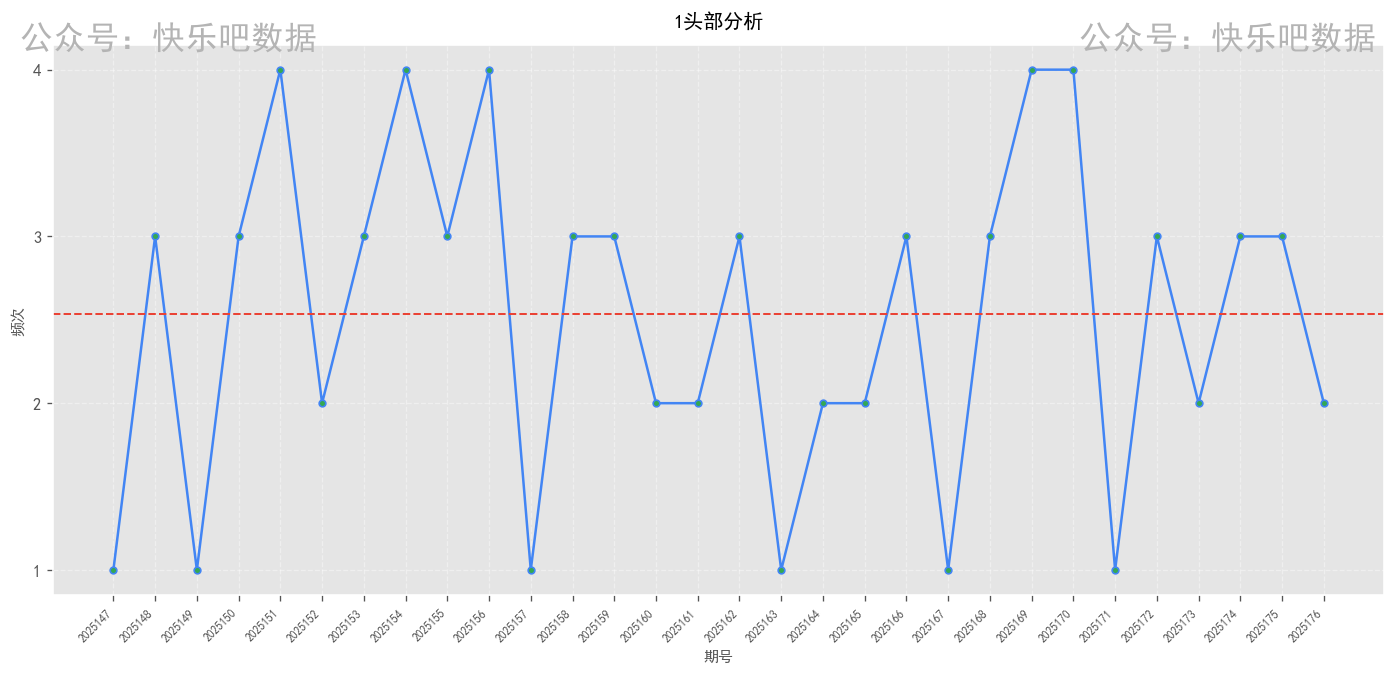
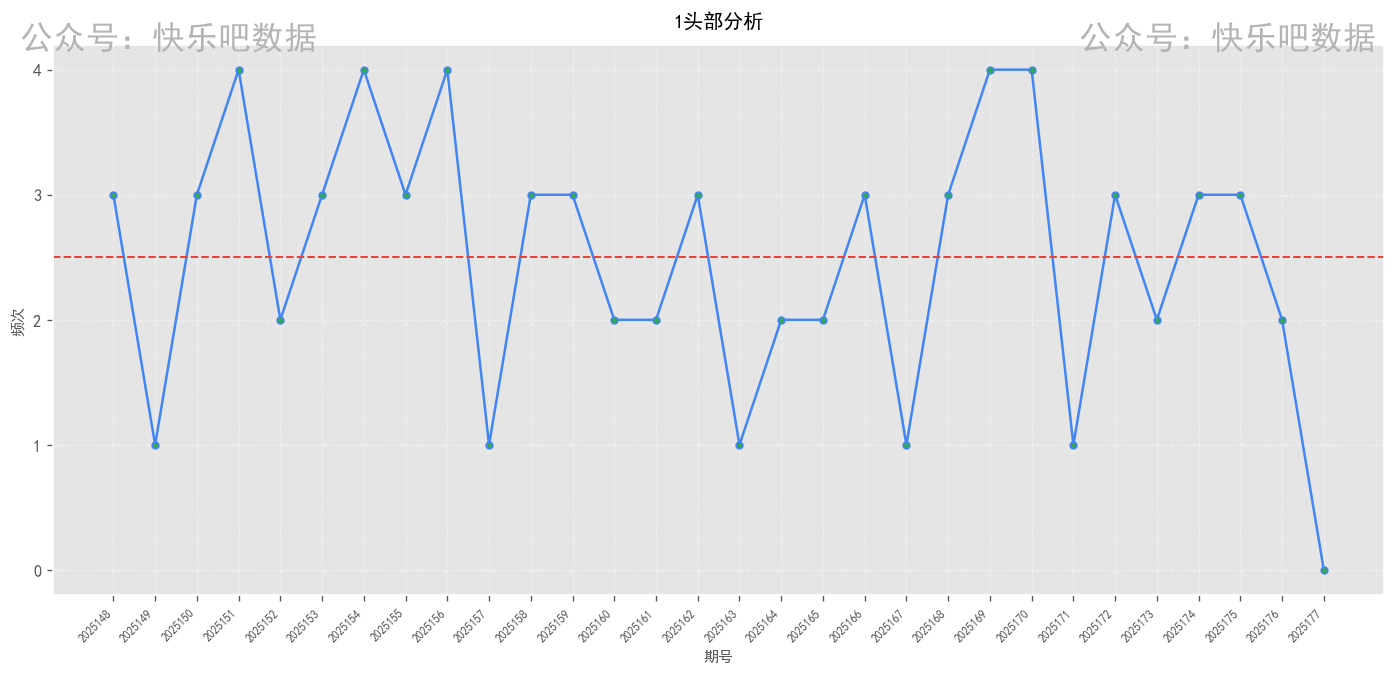
自动提交报告 20250706_2323

diff --git a/快乐8头号分析项目/数据报告/20250706/report.html b/快乐8头号分析项目/数据报告/20250706/report.html
@@ -440,7 +440,7 @@
                     <div class="label">头部区间</div>
                 </div>
                 <div class="overview-card">
-                    <div class="value">2025176</div>
+                    <div class="value">2025177</div>
                     <div class="label">最新期号</div>
                 </div>
                 <div class="overview-card">
@@ -464,11 +464,11 @@
             <div class="stats-summary">
                 <div class="stat-item">
                     <span class="stat-label">历史平均</span>
-                    <span class="stat-value">2.20</span>
+                    <span class="stat-value">2.33</span>
                 </div>
                 <div class="stat-item">
                     <span class="stat-label">近期平均</span>
-                    <span class="stat-value">2.40</span>
+                    <span class="stat-value">3.00</span>
                 </div>
                 <div class="stat-item">
                     <span class="stat-label">最高频次</span>
@@ -486,11 +486,11 @@
             <div class="stats-summary">
                 <div class="stat-item">
                     <span class="stat-label">历史平均</span>
-                    <span class="stat-value">2.53</span>
+                    <span class="stat-value">2.50</span>
                 </div>
                 <div class="stat-item">
                     <span class="stat-label">近期平均</span>
-                    <span class="stat-value">2.60</span>
+                    <span class="stat-value">2.00</span>
                 </div>
                 <div class="stat-item">
                     <span class="stat-label">最高频次</span>
@@ -508,11 +508,11 @@
             <div class="stats-summary">
                 <div class="stat-item">
                     <span class="stat-label">历史平均</span>
-                    <span class="stat-value">2.73</span>
+                    <span class="stat-value">2.67</span>
                 </div>
                 <div class="stat-item">
                     <span class="stat-label">近期平均</span>
-                    <span class="stat-value">2.20</span>
+                    <span class="stat-value">2.00</span>
                 </div>
                 <div class="stat-item">
                     <span class="stat-label">最高频次</span>
@@ -530,15 +530,15 @@
             <div class="stats-summary">
                 <div class="stat-item">
                     <span class="stat-label">历史平均</span>
-                    <span class="stat-value">2.60</span>
+                    <span class="stat-value">2.70</span>
                 </div>
                 <div class="stat-item">
                     <span class="stat-label">近期平均</span>
-                    <span class="stat-value">2.00</span>
+                    <span class="stat-value">2.60</span>
                 </div>
                 <div class="stat-item">
                     <span class="stat-label">最高频次</span>
-                    <span class="stat-value">5</span>
+                    <span class="stat-value">6</span>
                 </div>
             </div>
         </div>
@@ -574,11 +574,11 @@
             <div class="stats-summary">
                 <div class="stat-item">
                     <span class="stat-label">历史平均</span>
-                    <span class="stat-value">2.47</span>
+                    <span class="stat-value">2.37</span>
                 </div>
                 <div class="stat-item">
                     <span class="stat-label">近期平均</span>
-                    <span class="stat-value">3.00</span>
+                    <span class="stat-value">2.20</span>
                 </div>
                 <div class="stat-item">
                     <span class="stat-label">最高频次</span>
@@ -596,11 +596,11 @@
             <div class="stats-summary">
                 <div class="stat-item">
                     <span class="stat-label">历史平均</span>
-                    <span class="stat-value">2.40</span>
+                    <span class="stat-value">2.37</span>
                 </div>
                 <div class="stat-item">
                     <span class="stat-label">近期平均</span>
-                    <span class="stat-value">2.60</span>
+                    <span class="stat-value">2.80</span>
                 </div>
                 <div class="stat-item">
                     <span class="stat-label">最高频次</span>
@@ -644,7 +644,7 @@
                 </div>
                 <div class="stat-item">
                     <span class="stat-label">近期平均</span>
-                    <span class="stat-value">0.00</span>
+                    <span class="stat-value">0.20</span>
                 </div>
                 <div class="stat-item">
                     <span class="stat-label">最高频次</span>
@@ -668,7 +668,7 @@
         <div class="disclaimer">
             <div class="disclaimer-title"><i class="fas fa-exclamation-circle"></i> 法律声明</div>
             <p>本分析报告基于中国福利彩票官网公开数据制作，仅供历史数据分析与参考，严禁用于赌博或任何违法违规用途。</p>
-            <p>根据中国法律，禁止向未成年人传播彩票相关信息。数据统计周期: 2025147期-2025176期 | 生成时间: 2025-07-06 08:54</p>
+            <p>根据中国法律，禁止向未成年人传播彩票相关信息。数据统计周期: 2025148期-2025177期 | 生成时间: 2025-07-06 23:23</p>
         </div>
 
         <!-- 操作按钮 -->

diff --git a/index.html b/index.html
@@ -51,7 +51,7 @@
                 立即查看今日报告
             </a>
         </p>
-        <p>生成时间: 2025-07-06 08:54</p>
+        <p>生成时间: 2025-07-06 23:23</p>
     </div>
 
     <script>
